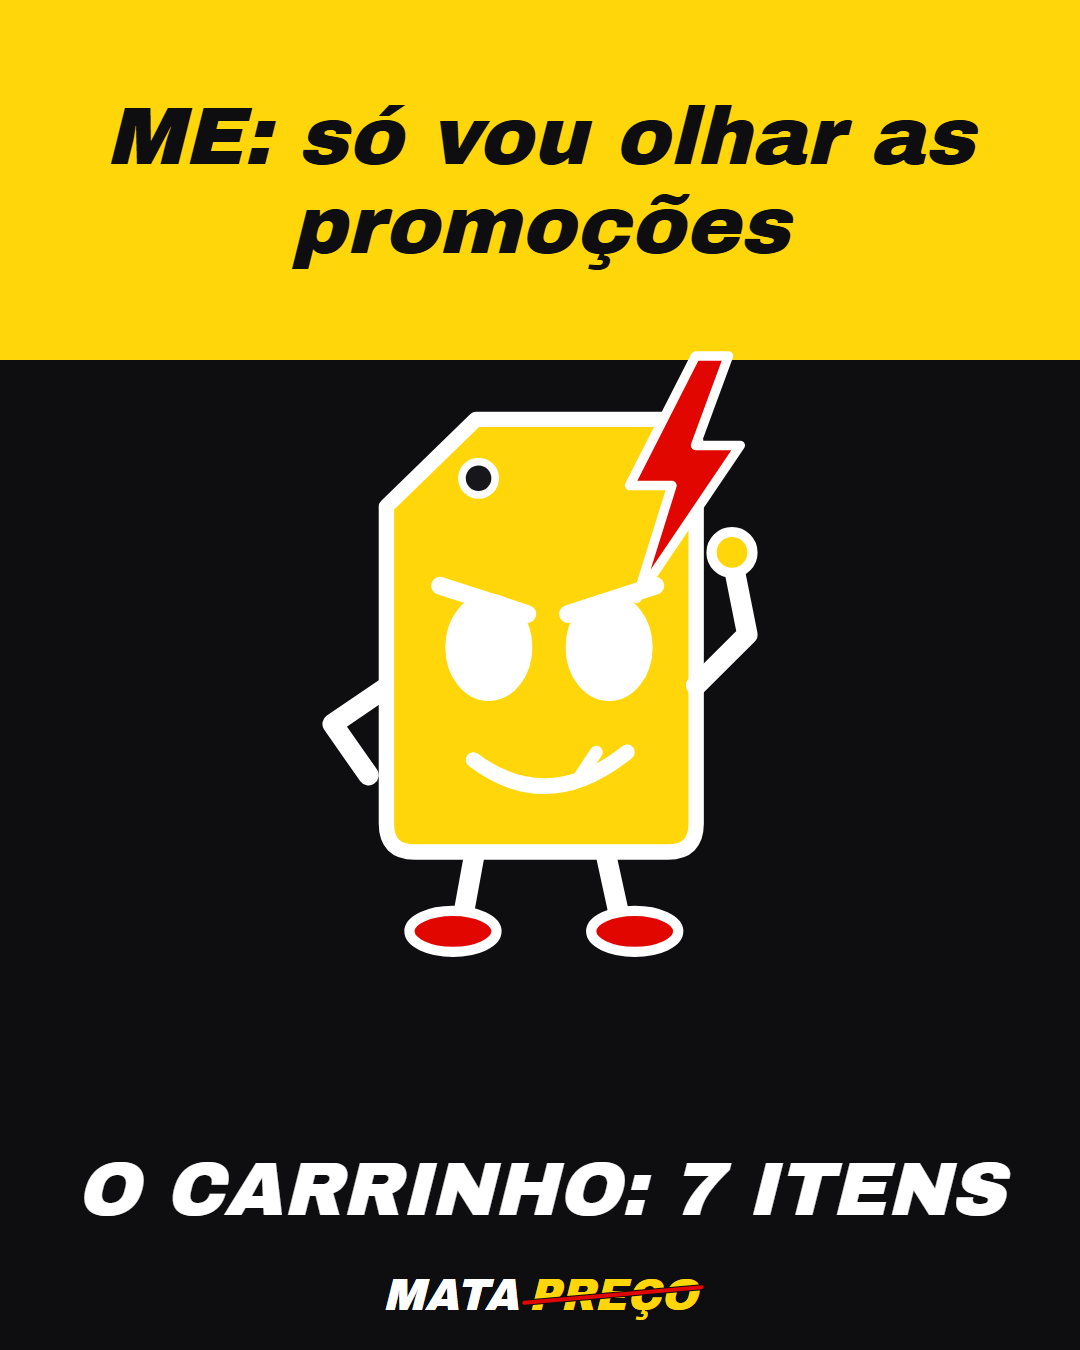
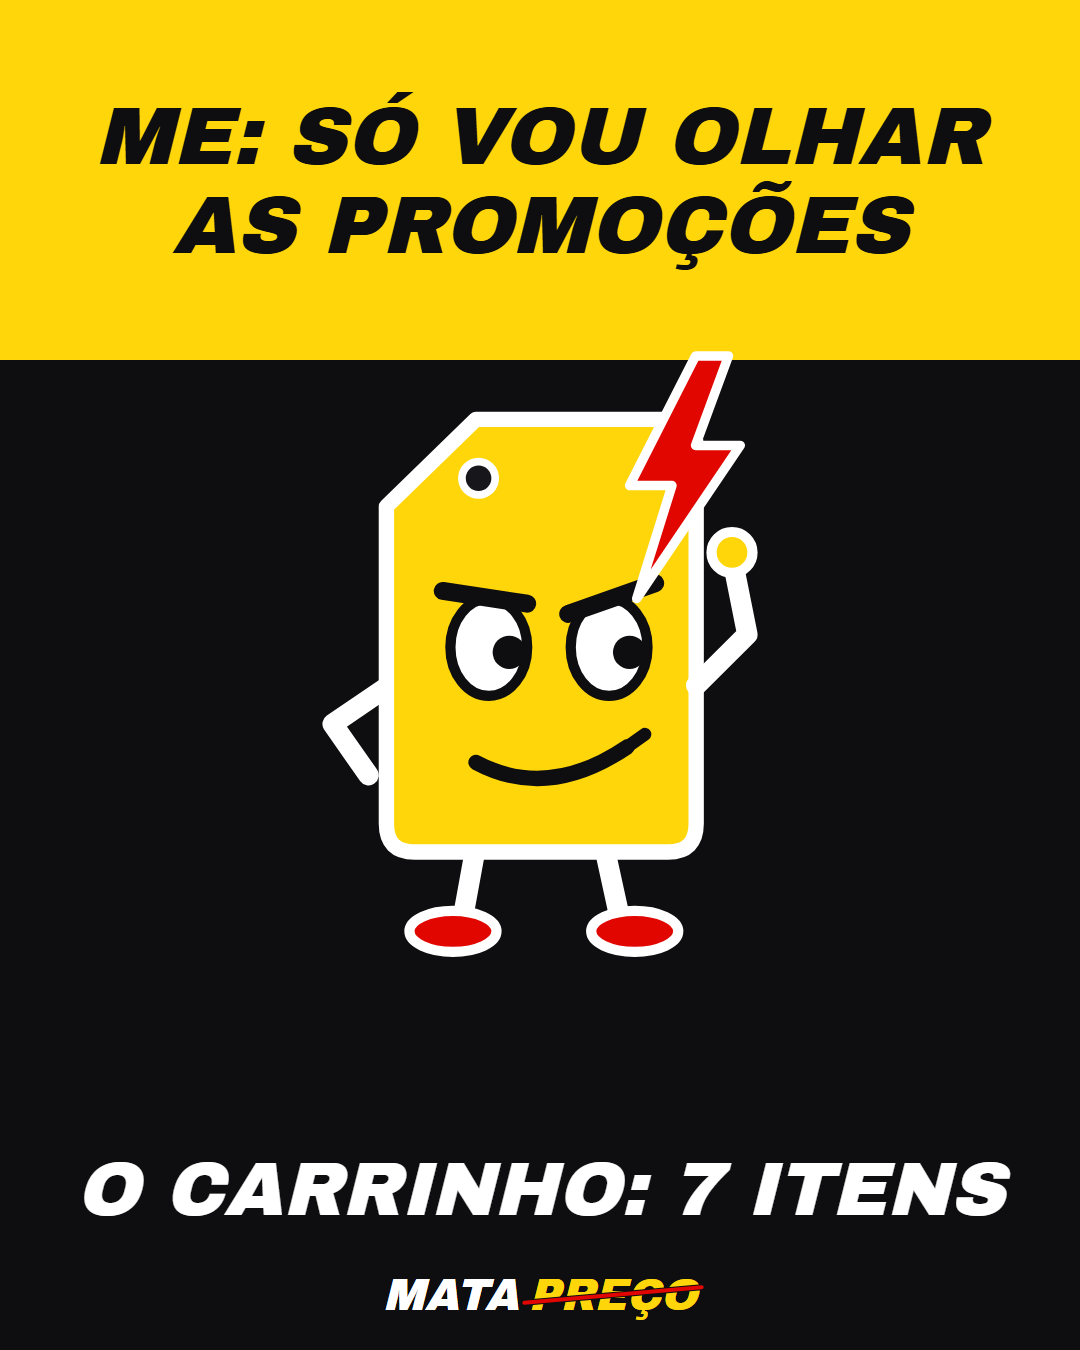
Mascote com 6 expressoes (decidido, feliz, surpreso, triste, safado, cansado) e rosto sempre preto; memes refeitos com a expressao de cada situacao

Changed region(s): [[0.0917, 0.0622, 0.9167, 0.2178], [0.3972, 0.4044, 0.6111, 0.5911]]

diff --git a/remotion/src/Identidade.tsx b/remotion/src/Identidade.tsx
@@ -131,11 +131,37 @@ export const Folha: React.FC = () => {
   );
 };
 
+
+export type Expressao = 'decidido' | 'feliz' | 'surpreso' | 'triste' | 'safado' | 'cansado';
+
+/** O rosto do mascote (dentro do quadro 400x500 do corpo): cada expressão muda olhos, sobrancelhas e boca. */
+const Rosto: React.FC<{ expressao: Expressao; contorno: string; corpo: string }> = ({ expressao, corpo }) => {
+  // O rosto é sempre preto sobre o corpo amarelo (o contorno do mascote pode ser branco, e pupila branca sobre olho branco some).
+  const contorno = COR.preto;
+  const tr = { stroke: contorno, strokeWidth: 12, fill: 'none' } as const;
+  const olho = (cx: number, ry = 38, rx = 30) => <ellipse cx={cx} cy={240} rx={rx} ry={ry} fill="#fff" stroke={contorno} strokeWidth={8} />;
+  const pupila = (cx: number, dx = 0, dy = 0, r = 13) => <circle cx={cx + dx} cy={240 + dy} r={r} fill={contorno} />;
+  switch (expressao) {
+    case 'feliz':
+      return (<g><path d="M130 250 Q160 205 190 250" {...tr} strokeWidth={14} /><path d="M224 250 Q254 205 284 250" {...tr} strokeWidth={14} /><path d="M140 312 Q206 395 272 312 Z" fill="#fff" stroke={contorno} strokeWidth={10} /><circle cx={118} cy={300} r={16} fill={COR.vermelho} opacity={0.35} /><circle cx={296} cy={300} r={16} fill={COR.vermelho} opacity={0.35} /></g>);
+    case 'surpreso':
+      return (<g>{olho(160, 46, 36)}{olho(254, 46, 36)}{pupila(160, 0, 0, 8)}{pupila(254, 0, 0, 8)}<path d="M124 176 Q160 156 196 176 M218 176 Q254 156 290 176" {...tr} strokeWidth={12} /><ellipse cx={207} cy={344} rx={24} ry={32} fill={contorno} /></g>);
+    case 'triste':
+      return (<g>{olho(160)}{olho(254)}{pupila(160, 0, 10)}{pupila(254, 0, 10)}<path d="M124 208 L190 190 M290 208 L222 190" {...tr} strokeWidth={14} /><path d="M150 356 Q206 316 266 352" {...tr} /><path d="M176 282 Q168 312 180 326 Q192 312 176 282 Z" fill="#5BC0EB" stroke={contorno} strokeWidth={4} /></g>);
+    case 'safado':
+      return (<g>{olho(160)}{olho(254)}{pupila(160, 16, 4)}{pupila(254, 16, 4)}<path d="M124 196 L190 206 M290 190 L222 214" {...tr} strokeWidth={14} /><path d="M150 330 Q206 360 268 318" {...tr} /><path d="M268 318 L282 308" {...tr} strokeWidth={10} /></g>);
+    case 'cansado':
+      return (<g>{olho(160)}{olho(254)}{pupila(160, 0, 16, 11)}{pupila(254, 0, 16, 11)}<path d="M130 240 A30 38 0 0 1 190 240 Z" fill={corpo} stroke={contorno} strokeWidth={8} /><path d="M224 240 A30 38 0 0 1 284 240 Z" fill={corpo} stroke={contorno} strokeWidth={8} /><path d="M132 292 Q160 304 188 292 M226 292 Q254 304 284 292" stroke={contorno} strokeWidth={6} fill="none" opacity={0.45} /><path d="M156 346 H258" {...tr} /></g>);
+    default:
+      return (<g>{olho(160)}{olho(254)}{pupila(172, 0, 6)}{pupila(266, 0, 6)}<path d="M122 192 L190 214 M290 192 L222 214" {...tr} strokeWidth={14} /><path d="M148 328 Q206 372 268 322" {...tr} /><path d="M232 340 L244 322" stroke="#fff" strokeWidth={10} fill="none" /></g>);
+  }
+};
+
 /**
  * Mascote "Etiquetinha": a etiqueta de preço com cara decidida, que segura o raio e mata o preço. Desenhado em vetor (400x500), para usar em
  * Reels, capas e figurinhas, sempre igual. `fundo` é a cor de trás (o contorno de baixo do raio e do corpo).
  */
-export const Mascote: React.FC<{ altura: number; corpo?: string; contorno?: string }> = ({ altura, corpo = COR.amarelo, contorno = COR.preto }) => (
+export const Mascote: React.FC<{ altura: number; corpo?: string; contorno?: string; expressao?: Expressao }> = ({ altura, corpo = COR.amarelo, contorno = COR.preto, expressao = 'decidido' }) => (
   <svg height={altura} width={altura * 0.8} viewBox="0 0 400 500" strokeLinecap="round" strokeLinejoin="round">
     {/* pernas e tênis */}
     <path d="M150 395 L140 450 M250 395 L262 450" stroke={contorno} strokeWidth="16" fill="none" />
@@ -146,14 +172,7 @@ export const Mascote: React.FC<{ altura: number; corpo?: string; contorno?: stri
     {/* corpo: a etiqueta */}
     <path d="M80 130 L150 62 H300 Q322 62 322 84 V378 Q322 400 300 400 H102 Q80 400 80 378 Z" fill={corpo} stroke={contorno} strokeWidth="12" />
     <circle cx="152" cy="108" r="13" fill="#17171B" stroke={contorno} strokeWidth="6" />
-    {/* rosto */}
-    <ellipse cx="160" cy="240" rx="30" ry="38" fill="#fff" stroke={contorno} strokeWidth="8" />
-    <ellipse cx="254" cy="240" rx="30" ry="38" fill="#fff" stroke={contorno} strokeWidth="8" />
-    <circle cx="172" cy="246" r="13" fill={contorno} />
-    <circle cx="266" cy="246" r="13" fill={contorno} />
-    <path d="M122 192 L190 214 M290 192 L222 214" stroke={contorno} strokeWidth="14" fill="none" />
-    <path d="M148 328 Q206 372 268 322" stroke={contorno} strokeWidth="12" fill="none" />
-    <path d="M232 340 L244 322" stroke="#fff" strokeWidth="10" fill="none" />
+    <Rosto expressao={expressao} contorno={contorno} corpo={corpo} />
     {/* braço direito levantado com o raio */}
     <path d="M322 270 L362 230 L350 170" stroke={contorno} strokeWidth="16" fill="none" />
     <circle cx="350" cy="166" r="16" fill={corpo} stroke={contorno} strokeWidth="8" />
@@ -173,7 +192,7 @@ export const MascoteSozinho: React.FC<{ fundo: 'preto' | 'amarelo' }> = ({ fundo
 };
 
 /** Meme original do Mata Preço (1080x1350): a situação em cima (faixa amarela), o mascote no meio e a resposta embaixo. Sem marca de terceiros. */
-export const Meme: React.FC<{ topo: string; base: string }> = ({ topo, base }) => {
+export const Meme: React.FC<{ topo: string; base: string; expressao?: Expressao }> = ({ topo, base, expressao = 'decidido' }) => {
   const tam = (s: string, max: number, largura: number) => Math.min(max, Math.floor(largura / (Math.max(1, s.length) * 0.5)));
   return (
     <AbsoluteFill style={{ background: COR.preto }}>
@@ -181,7 +200,7 @@ export const Meme: React.FC<{ topo: string; base: string }> = ({ topo, base }) =
         <div style={{ fontFamily: FONTE, fontWeight: 900, fontStyle: 'italic', fontSize: tam(topo, 82, 2000), lineHeight: 1.08, color: COR.preto, textAlign: 'center' }}>{topo}</div>
       </div>
       <div style={{ position: 'absolute', top: 340, left: 0, right: 0, display: 'flex', justifyContent: 'center' }}>
-        <Mascote altura={640} corpo={COR.amarelo} contorno={COR.branco} />
+        <Mascote altura={640} corpo={COR.amarelo} contorno={COR.branco} expressao={expressao} />
       </div>
       <div style={{ position: 'absolute', bottom: 120, left: 60, right: 60, textAlign: 'center', fontFamily: FONTE, fontWeight: 900, fontStyle: 'italic', fontSize: tam(base, 76, 2000), lineHeight: 1.1, color: COR.branco }}>{base}</div>
       <div style={{ position: 'absolute', bottom: 34, width: '100%', display: 'flex', justifyContent: 'center' }}><Nome tamanho={44} /></div>
